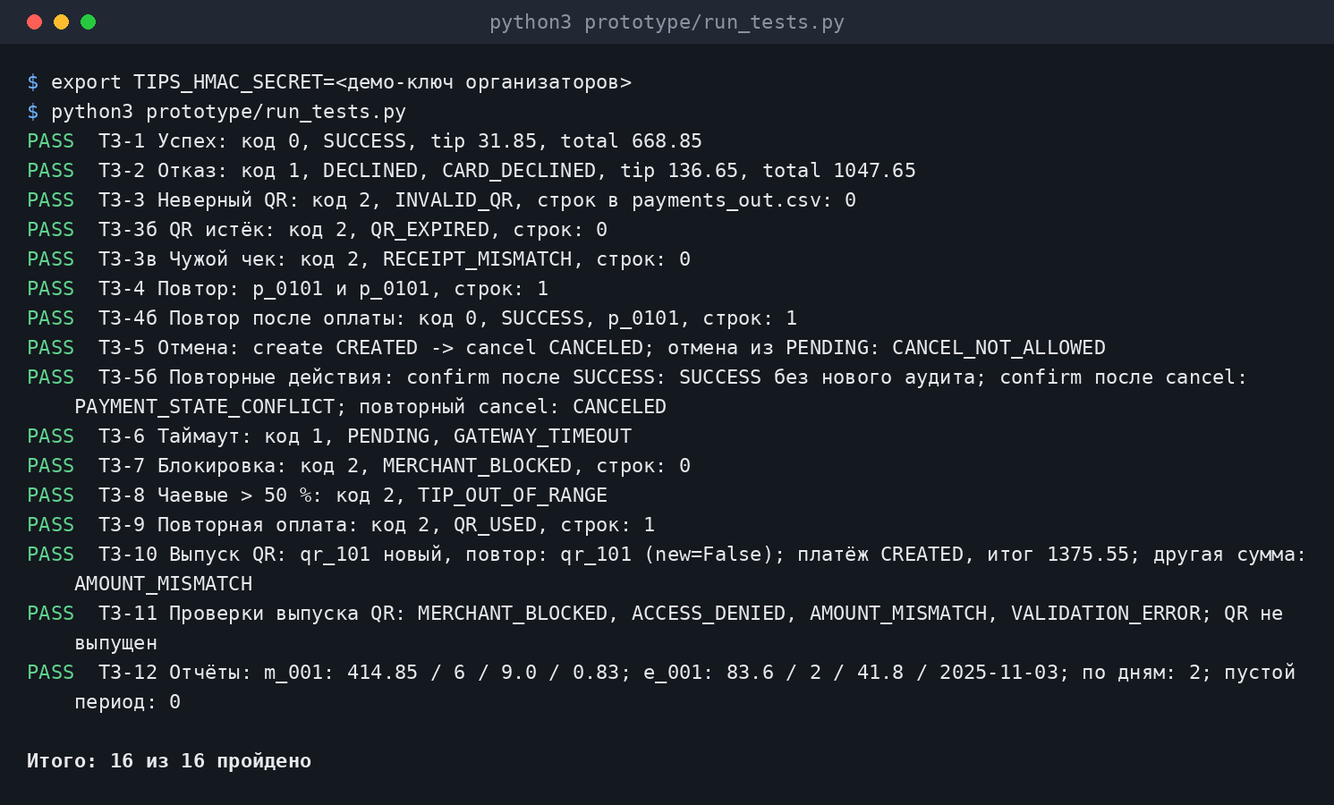
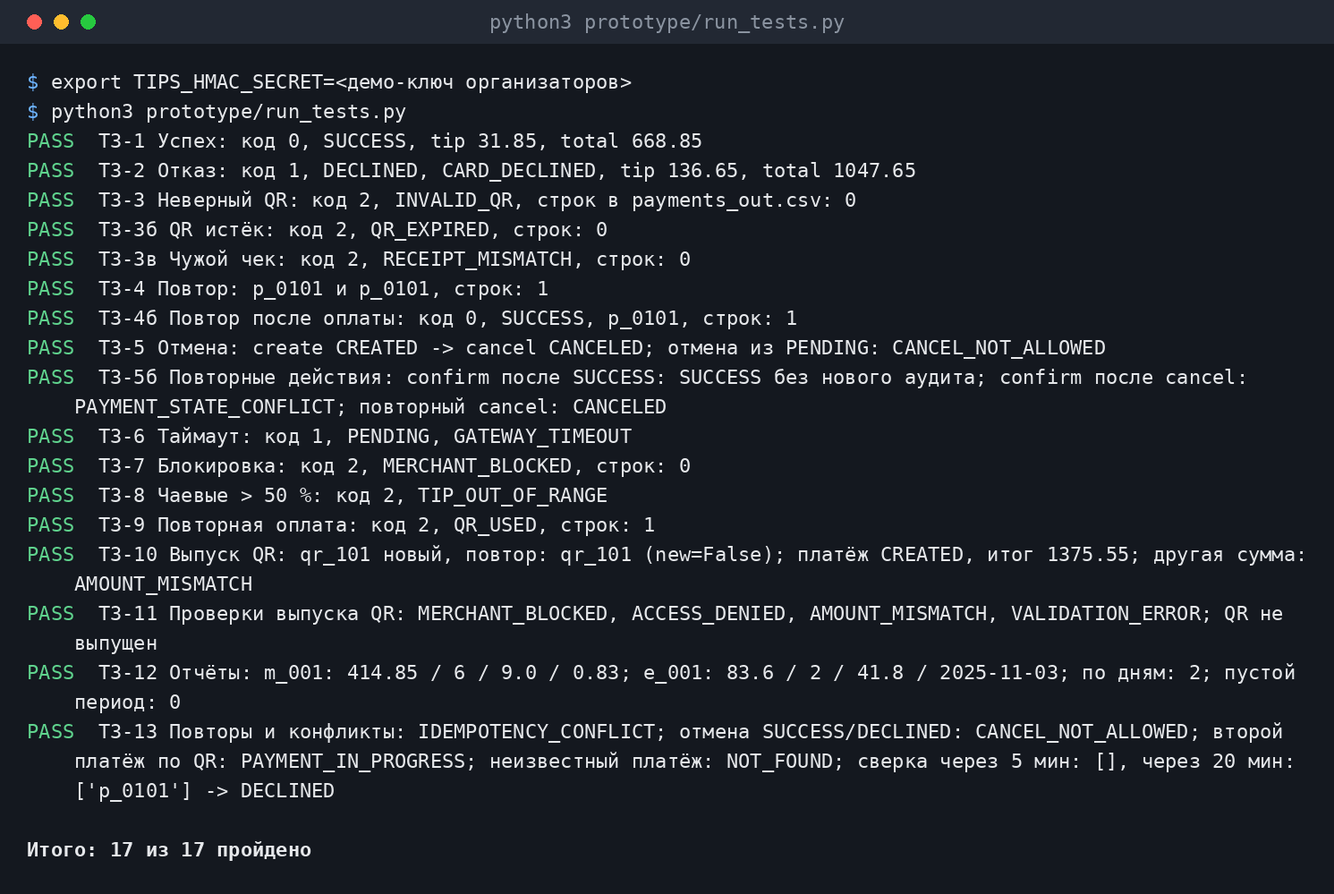
Clean stale statements, add T3-13 and a PDF export script
- B.2: every error row now points at the test that covers it (24 of 27),
  the three without a test are explained; proposal table removed
- tests: T3-13 (idempotency conflict, cancel after SUCCESS/DECLINED, second
  payment per QR, reconcile, unknown payment); suite is 17 of 17
- docs/appendix/make_pdf.py: appendix.md -> HTML/PDF with a 10-15 page check
  (WeasyPrint); measured 16 pages with demo.png, 14 without
- counts, presenter guide and journal updated

diff --git a/docs/appendix/make_pdf.py b/docs/appendix/make_pdf.py
@@ -1,0 +1,90 @@
+#!/usr/bin/env python3
+"""
+Экспорт приложения в PDF и проверка объёма (шаблон чемпионата: 10–15 страниц).
+
+    pip install markdown weasyprint          # один раз
+    python3 docs/appendix/build_appendix.py  # собрать appendix.md из документов
+    python3 docs/appendix/make_pdf.py        # appendix.html + appendix.pdf + число страниц
+
+    python3 docs/appendix/make_pdf.py --max-pages 15 --min-pages 10
+    python3 docs/appendix/make_pdf.py --input other.md --output other.pdf
+
+Код выхода 1, если страниц больше --max-pages. Если WeasyPrint не установлен или не запускается
+(на Windows ему нужен GTK), скрипт всё равно пишет appendix.html: откройте его в браузере,
+Ctrl+P → «Сохранить как PDF», размер A4, поля «обычные», включите «Фон»; число страниц смотрите в предпросмотре.
+"""
+import argparse
+import os
+import sys
+
+HERE = os.path.dirname(os.path.abspath(__file__))
+
+CSS = """
+@page { size: A4; margin: 16mm 14mm 18mm;
+        @bottom-center { content: counter(page) " / " counter(pages); font-size: 8pt; color: #666; } }
+html { font-family: Inter, 'Segoe UI', 'DejaVu Sans', Arial, sans-serif; font-size: 9pt; line-height: 1.35; color: #1b2430; }
+h1 { font-size: 18pt; margin: 0 0 6mm; }
+h2 { font-size: 13pt; margin: 7mm 0 2mm; border-bottom: 1px solid #c9ced6; padding-bottom: 1mm; }
+h3 { font-size: 11pt; margin: 5mm 0 1.5mm; }
+h2, h3, h4 { break-after: avoid; }
+p { margin: 1.5mm 0; }
+table { border-collapse: collapse; width: 100%; margin: 2mm 0 3mm; font-size: 7.6pt; }
+th, td { border: 1px solid #b8bfc9; padding: 1mm 1.4mm; vertical-align: top; overflow-wrap: anywhere; }
+th { background: #eef1f4; text-align: left; }
+tr { break-inside: avoid; }
+thead { display: table-header-group; }
+img { max-width: 100%; max-height: 215mm; display: block; margin: 2mm auto; break-inside: avoid; }
+code { font-family: 'DejaVu Sans Mono', Consolas, monospace; font-size: 0.9em; background: #f1f3f5; padding: 0 0.6mm; }
+pre { background: #f1f3f5; padding: 1.5mm 2mm; white-space: pre-wrap; break-inside: avoid; }
+pre code { background: none; padding: 0; }
+blockquote { margin: 2mm 0; padding: 0.5mm 3mm; border-left: 3px solid #c9ced6; color: #4a5568; }
+ul, ol { margin: 1mm 0; padding-left: 5mm; }
+"""
+
+
+def parse_args():
+    ap = argparse.ArgumentParser(description="Экспорт приложения в PDF и проверка числа страниц")
+    ap.add_argument("--input", default=os.path.join(HERE, "appendix.md"))
+    ap.add_argument("--output", help="по умолчанию — рядом с входным файлом, расширение .pdf")
+    ap.add_argument("--min-pages", type=int, default=10)
+    ap.add_argument("--max-pages", type=int, default=15)
+    return ap.parse_args()
+
+
+def main():
+    args = parse_args()
+    if not os.path.exists(args.input):
+        sys.exit(f"Нет файла {args.input}. Сначала: python3 docs/appendix/build_appendix.py")
+    try:
+        import markdown
+    except ImportError:
+        sys.exit("Нужен модуль markdown: pip install markdown weasyprint")
+
+    stem = os.path.splitext(args.input)[0]
+    html_path, pdf_path = stem + ".html", args.output or stem + ".pdf"
+    with open(args.input, encoding="utf-8") as f:
+        body = markdown.markdown(f.read(), extensions=["tables", "fenced_code", "sane_lists"])
+    html = f"<!doctype html><html lang='ru'><head><meta charset='utf-8'><title>Приложение</title><style>{CSS}</style></head><body>{body}</body></html>"
+    with open(html_path, "w", encoding="utf-8") as f:
+        f.write(html)
+    print(f"HTML: {os.path.relpath(html_path)}")
+
+    try:
+        from weasyprint import HTML
+        document = HTML(string=html, base_url=os.path.dirname(os.path.abspath(args.input)) + os.sep).render()
+    except Exception as exc:  # WeasyPrint не установлен или не нашёл системные библиотеки
+        print(f"PDF не собран автоматически ({type(exc).__name__}: {exc}).\n"
+              "Откройте HTML в браузере и сохраните как PDF (Ctrl+P), см. docstring скрипта.")
+        sys.exit(0)
+    document.write_pdf(pdf_path)
+    pages = len(document.pages)
+    print(f"PDF: {os.path.relpath(pdf_path)}, страниц: {pages} (нужно {args.min_pages}–{args.max_pages})")
+    if pages > args.max_pages:
+        print("Слишком много: уберите demo.png из раздела E или сократите ADR-сводку B.4.")
+        sys.exit(1)
+    if pages < args.min_pages:
+        print("Меньше минимума шаблона: добавьте содержательные разделы (скриншоты, матрица вклада).")
+
+
+if __name__ == "__main__":
+    main()

diff --git a/prototype/run_tests.py b/prototype/run_tests.py
@@ -256,10 +256,47 @@ def t12():
                 f"по дням: {len(d['daily'])}; пустой период: {z['payments_count']}")
 
 
+def t13():
+    """Строки B.2 без отдельного теста: конфликт ключа, отмена закрытого платежа, второй платёж по QR, сверка, неизвестный платёж."""
+    body = dict(qr_id="qr_001", sig=sig_of("qr_001"), base_amount=637.00, tip_pct=5)
+    e = Env()
+    e.run(e.req(**body, idempotency_key="k-13a"))  # SUCCESS, p_0101
+    c1, conflict = e.run(e.req(**dict(body, tip_pct=10, idempotency_key="k-13a")))
+    c2, cancel_paid = e.run("cancel", "p_0101")
+    c3, missing = e.run("confirm", "p_9999")
+
+    e2 = Env()
+    e2.run(e2.req(qr_id="qr_003", sig=sig_of("qr_003"), base_amount=911.00, tip_pct=15, idempotency_key="k-13b"))
+    c4, cancel_declined = e2.run("cancel", "p_0101")
+
+    e3 = Env()
+    e3.run("create", e3.req(**body, idempotency_key="k-13c"))  # CREATED, QR занят
+    c5, busy = e3.run("create", e3.req(**body, idempotency_key="k-13d"))
+
+    e4 = Env()
+    e4.run(e4.req(qr_id="qr_010", sig=sig_of("qr_010"), base_amount=e2_amount("qr_010"), tip_pct=10,
+                  idempotency_key="k-13e"))  # PENDING, ждёт сверку
+    _, early = e4.run("reconcile", now="2025-11-01T18:05:00Z")
+    _, late = e4.run("reconcile", now="2025-11-01T18:20:00Z")
+    closed = e4.rows()[0]
+
+    ok = (c1 == 2 and conflict["error_code"] == "IDEMPOTENCY_CONFLICT"
+          and c2 == 2 and cancel_paid["error_code"] == "CANCEL_NOT_ALLOWED"
+          and c3 == 2 and missing["error_code"] == "NOT_FOUND"
+          and c4 == 2 and cancel_declined["error_code"] == "CANCEL_NOT_ALLOWED"
+          and c5 == 2 and busy["error_code"] == "PAYMENT_IN_PROGRESS"
+          and early["closed"] == [] and late["closed"] == ["p_0101"]
+          and closed["status"] == "DECLINED" and closed["error_code"] == "GATEWAY_TIMEOUT")
+    return ok, (f"{conflict['error_code']}; отмена SUCCESS/DECLINED: {cancel_paid['error_code']}; "
+                f"второй платёж по QR: {busy['error_code']}; неизвестный платёж: {missing['error_code']}; "
+                f"сверка через 5 мин: {early['closed']}, через 20 мин: {late['closed']} -> {closed['status']}")
+
+
 TESTS = [("T3-1 Успех", t1), ("T3-2 Отказ", t2), ("T3-3 Неверный QR", t3), ("T3-3б QR истёк", t3b), ("T3-3в Чужой чек", t3c),
          ("T3-4 Повтор", t4), ("T3-4б Повтор после оплаты", t4b), ("T3-5 Отмена", t5), ("T3-5б Повторные действия", t5b), ("T3-6 Таймаут", t6), ("T3-7 Блокировка", t7),
          ("T3-8 Чаевые > 50 %", t8), ("T3-9 Повторная оплата", t9),
-         ("T3-10 Выпуск QR", t10), ("T3-11 Проверки выпуска QR", t11), ("T3-12 Отчёты", t12)]
+         ("T3-10 Выпуск QR", t10), ("T3-11 Проверки выпуска QR", t11), ("T3-12 Отчёты", t12),
+         ("T3-13 Повторы и конфликты", t13)]
 
 
 def main():

diff --git a/docs/b2-error-matrix.md b/docs/b2-error-matrix.md
@@ -12,34 +12,34 @@
 | Ситуация | Код ошибки | HTTP | retryable | Правило | Что видит клиент | Тест |
 |-|-|-|-|-|-|-|
 | Подпись QR не совпала | INVALID_QR | 422 | нет | Q-1 | «Не удалось открыть оплату» | T3-3 |
-| QR истёк | QR_EXPIRED | 410 | да (новый QR) | Q-2 | «QR устарел, попросите официанта новый» | T3-3 (вариант) |
-| nonce использован | QR_USED | 409 | нет | Q-3 | «Этот чек уже оплачен» | — |
-| merchant BLOCKED | MERCHANT_BLOCKED | 403 | нет | Q-4 | «Оплата в заведении недоступна» | — |
-| `receipt_id` не совпадает с QR | RECEIPT_MISMATCH | 422 | нет | Q-5 | «Не удалось открыть оплату» | — |
+| QR истёк | QR_EXPIRED | 410 | да (новый QR) | Q-2 | «QR устарел, попросите официанта новый» | T3-3б |
+| nonce использован | QR_USED | 409 | нет | Q-3 | «Этот чек уже оплачен» | T3-9 |
+| merchant BLOCKED | MERCHANT_BLOCKED | 403 | нет | Q-4 | «Оплата в заведении недоступна» | T3-7 |
+| `receipt_id` не совпадает с QR | RECEIPT_MISMATCH | 422 | нет | Q-5 | «Не удалось открыть оплату» | T3-3в |
 
 ## Суммы
 
 | Ситуация | Код ошибки | HTTP | retryable | Правило | Что видит клиент | Тест |
 |-|-|-|-|-|-|-|
-| `base_amount` не совпадает с реестром чеков | AMOUNT_MISMATCH | 422 | нет | ADR-003 | «Сумма чека изменилась, обновите страницу» | — |
+| `base_amount` не совпадает с реестром чеков | AMOUNT_MISMATCH | 422 | нет | ADR-003 | «Сумма чека изменилась, обновите страницу» | T3-10 |
 | `base_amount ≤ 0` или `> 1 000 000` | AMOUNT_OUT_OF_RANGE | 422 | нет | P-1 | «Некорректная сумма» | — |
-| `tip_pct > 50` или своя сумма больше 50 % чека | TIP_OUT_OF_RANGE | 422 | да (исправить чаевые) | Q-6 | «Чаевые — не больше 50 % от чека» | — |
+| `tip_pct > 50` или своя сумма больше 50 % чека | TIP_OUT_OF_RANGE | 422 | да (исправить чаевые) | Q-6 | «Чаевые — не больше 50 % от чека» | T3-8 |
 | `amount_total > 2 000 000` | AMOUNT_OUT_OF_RANGE | 422 | нет | P-3 | «Некорректная сумма» | — |
 
 ## Создание и жизненный цикл платежа
 
 | Ситуация | Код ошибки | HTTP | retryable | Правило | Что видит клиент | Тест |
 |-|-|-|-|-|-|-|
-| Тот же `idempotency_key`, то же тело (в том числе после SUCCESS или истечения QR) | — (вернуть существующий платёж) | 200 | — | P-2 | тот же экран, что после первого запроса | T3-4 |
-| Тот же `idempotency_key`, другое тело | IDEMPOTENCY_CONFLICT | 409 | нет | P-2, ADR-008 | «Обновите страницу» | — |
-| По QR уже есть платёж в CREATED или PENDING | PAYMENT_IN_PROGRESS | 409 | да (дождаться итога) | ADR-002 | «Оплата уже обрабатывается» | — |
+| Тот же `idempotency_key`, то же тело (в том числе после SUCCESS или истечения QR) | — (вернуть существующий платёж) | 200 | — | P-2 | тот же экран, что после первого запроса | T3-4, T3-4б |
+| Тот же `idempotency_key`, другое тело | IDEMPOTENCY_CONFLICT | 409 | нет | P-2, ADR-008 | «Обновите страницу» | T3-13 |
+| По QR уже есть платёж в CREATED или PENDING | PAYMENT_IN_PROGRESS | 409 | да (дождаться итога) | ADR-002 | «Оплата уже обрабатывается» | T3-13 |
 | Отмена из CREATED | — | 200, CANCELED | — | ADR-002 | «Оплата отменена» | T3-5 |
 | Отмена из PENDING | CANCEL_NOT_ALLOWED | 409 | нет | P-4 | «Оплата уже отправлена в банк» | T3-5 |
-| Отмена из SUCCESS | CANCEL_NOT_ALLOWED | 409 | нет | P-4 | «Оплата уже прошла» | — |
-| Отмена из DECLINED | CANCEL_NOT_ALLOWED | 409 | нет | P-4 | «Оплата не прошла, отменять нечего» | — |
-| Повторная отмена CANCELED | — | 200, CANCELED | — | ADR-002 | «Оплата отменена» | — |
-| Повторный confirm (PENDING / SUCCESS / DECLINED) | — (текущий статус, шлюз не вызывается) | 202 / 200 / 402 | — | ADR-002, ADR-008 | тот же экран, что после первого confirm | — |
-| confirm для CANCELED | PAYMENT_STATE_CONFLICT | 409 | нет | ADR-002 | «Оплата была отменена» | — |
+| Отмена из SUCCESS | CANCEL_NOT_ALLOWED | 409 | нет | P-4 | «Оплата уже прошла» | T3-13 |
+| Отмена из DECLINED | CANCEL_NOT_ALLOWED | 409 | нет | P-4 | «Оплата не прошла, отменять нечего» | T3-13 |
+| Повторная отмена CANCELED | — | 200, CANCELED | — | ADR-002 | «Оплата отменена» | T3-5б |
+| Повторный confirm (PENDING / SUCCESS / DECLINED) | — (текущий статус, шлюз не вызывается) | 202 / 200 / 402 | — | ADR-002, ADR-008 | тот же экран, что после первого confirm | T3-5б |
+| confirm для CANCELED | PAYMENT_STATE_CONFLICT | 409 | нет | ADR-002 | «Оплата была отменена» | T3-5б |
 
 ## Платёжный шлюз
 
@@ -47,16 +47,16 @@
 |-|-|-|-|-|-|-|
 | Эмулятор вернул 0–7 | — | 200, SUCCESS | — | ADR-001 | «Спасибо! Чаевые отправлены» | T3-1 |
 | Эмулятор вернул 8 | CARD_DECLINED | 402 | да (другой способ оплаты) | ADR-001 | «Оплата не прошла, попробуйте другой способ» | T3-2 |
-| Эмулятор вернул 9 | GATEWAY_TIMEOUT | 202, PENDING | да (опросить статус) | ADR-001 | «Обрабатываем, проверьте через минуту» | T3-6 (доп., qr_010) |
-| Сверка: 15 мин без ответа | GATEWAY_TIMEOUT | — (статус DECLINED) | да (новая попытка) | ADR-002 | «Оплата не прошла, деньги не списаны» | T3-6 (доп.) |
+| Эмулятор вернул 9 | GATEWAY_TIMEOUT | 202, PENDING | да (опросить статус) | ADR-001 | «Обрабатываем, проверьте через минуту» | T3-6 |
+| Сверка: 15 мин без ответа | GATEWAY_TIMEOUT | — (статус DECLINED) | да (новая попытка) | ADR-002 | «Оплата не прошла, деньги не списаны» | T3-13 |
 
 ## Запрос и доступ
 
 | Ситуация | Код ошибки | HTTP | retryable | Правило | Что видит клиент | Тест |
 |-|-|-|-|-|-|-|
-| Неверный формат запроса | VALIDATION_ERROR | 400 | нет | ADR-004, шаг 1 | «Не удалось открыть оплату» | — |
-| QR или платёж не найден (подпись верна) | NOT_FOUND | 404 | нет | — | «Не удалось открыть оплату» | — |
-| Нет прав, например чужой отчёт | ACCESS_DENIED | 403 | нет | RBAC, 11_ИБ | «Нет доступа» (кабинет) | — |
+| Неверный формат запроса | VALIDATION_ERROR | 400 | нет | ADR-004, шаг 1 | «Не удалось открыть оплату» | T3-11 |
+| QR или платёж не найден (подпись верна) | NOT_FOUND | 404 | нет | — | «Не удалось открыть оплату» | T3-13 |
+| Нет прав, например чужой отчёт | ACCESS_DENIED | 403 | нет | RBAC, 11_ИБ | «Нет доступа» (кабинет) | T3-11 (выпуск QR) |
 | Превышен rate limit | RATE_LIMITED | 429 | да (после `Retry-After`) | ADR-009 | «Слишком много попыток, подождите» | — |
 
 ## Принципы
@@ -75,12 +75,10 @@
 
 ## Покрытие тестами
 
-Тестами T3-1…T3-5 покрыто 7 строк из 27. Добавить дешевле всего:
+Тестами прототипа (T3-1…T3-13, `prototype/run_tests.py`, [результаты](03-tests.md)) покрыто **24 строки из 27**.
+Три без теста — по причинам, а не по недосмотру:
 
-| Доп. тест | Вход | Ожидание |
-|-|-|-|
-| T3-6 Таймаут | qr_010, `--now 2025-11-01T18:00:00Z` | 202, PENDING, GATEWAY_TIMEOUT |
-| T3-7 Заблокированный мерчант | QR, подписанный для m_019 | 403 MERCHANT_BLOCKED, платёж не создан |
-| T3-8 Чаевые > 50 % | qr_001, `tip_pct = 51` | 422 TIP_OUT_OF_RANGE |
-| T3-9 Повторная оплата | qr_001 после SUCCESS, **новый** ключ | 409 QR_USED |
-| T3-4б Повтор после оплаты | qr_001 после SUCCESS, **тот же** ключ | 200, тот же `payment_id` |
+| Строки | Почему без теста |
+|-|-|
+| `base_amount` вне диапазона (P-1), `amount_total > 2 000 000` (P-3) | недостижимы при текущих лимитах: сумму чека раньше сверяет реестр (`AMOUNT_MISMATCH`), а итог не превышает 1 500 000. Правила стоят как защита в глубину ([ADR-004](adr-004-validation-order.md)) |
+| Превышен rate limit | описан в [ADR-009](adr-009-secrets-time-ttl.md), в прототипе не реализован |

diff --git a/docs/04-requirements.md b/docs/04-requirements.md
@@ -4,7 +4,7 @@
 
 ## Функциональные требования
 
-Все FR — Must для целевого решения. Тесты T3 относятся к [сценариям организаторов](../case/03_тесты.md), дополнения T3-6…T3-9 описаны в [B.2](b2-error-matrix.md#покрытие-тестами) и [руководстве разработчика](guides/developer.md). АТ ниже — дополнительные приёмочные сценарии аналитика, **ещё не реализованные и не выполненные**. Несуществующая ссылка `10_tests.md` заменена действующими.
+Все FR — Must для целевого решения. Тесты T3 относятся к [сценариям организаторов](../case/03_тесты.md), дополнительные тесты T3-3б…T3-13 реализованы в прототипе, результаты — в [тестах](03-tests.md), связь со строками ошибок — в [B.2](b2-error-matrix.md#покрытие-тестами). АТ ниже — дополнительные приёмочные сценарии аналитика, **ещё не реализованные и не выполненные**. Несуществующая ссылка `10_tests.md` заменена действующими.
 
 | ID | Требование и наблюдаемый результат | Приоритет | Тест / покрытие |
 |---|---|---|---|
@@ -89,4 +89,4 @@
 - [x] Сценарии написаны от лица клиента и официанта; отказ отделён от отмены.
 - [x] Даны действующие ссылки на T3 и явно обозначен план дополнительных проверок.
 
-Приёмка реализации отдельно: прототип проходит T3-1…T3-9 и дополнительные T3-3б, T3-3в, T3-4б, T3-5б — 13 из 13 ([тесты](03-tests.md)). Регистрация, RBAC, отчёты и rate limit в CLI не реализованы, сценарии АТ-1…АТ-9 остаются планом. Отметки выше подтверждают полноту документа.
+Приёмка реализации отдельно: прототип проходит 17 тестов из 17 ([тесты](03-tests.md)): T3-1…T3-9, дополнительные T3-3б, T3-3в, T3-4б, T3-5б и T3-10…T3-13 (выпуск QR, отчёты, повторы и конфликты). Регистрация, RBAC и rate limit в CLI не реализованы, сценарии АТ-1…АТ-9 остаются планом. Отметки выше подтверждают полноту документа.

diff --git a/docs/ai-journal.md b/docs/ai-journal.md
@@ -35,3 +35,4 @@
 | 15 | 2026-11-03 | архитектор / Claude | Довести PR #1 аналитика по ревью | «поправь сам» (аналитик не ответил на ревью) | влит main, строки журнала 12–14; 02-rules и 04-requirements по ADR-002/004 из PR #2; FR-3 0–20 %; receipt_id обязателен; устаревшие заметки о прототипе; analyst_data.py: Python < 3.11, check() вместо assert, null и ранний top_day | analyst_data.py проходит и с -O; check(False) прерывает прогон; run_tests.py 13 из 13 | черновик, аналитику — вычитать |
 | 16 | 2026-11-03 | архитектор / Claude | Закрыть пробелы кейса: диалоговая форма, генерация QR, отчёты в прототипе | «начни» после анализа проекта | docs/06-qr-and-dialog.md, diagrams/dialog (макет 4 экранов), команды `qr` и `report` в 04_прототип.py, тесты T3-10…T3-12, граничные случаи отчётов в ADR-007 | run_tests.py 16 из 16; отчёты сверены с ADR-007 и analyst_data.py (414.85 / 6 / 9.0 / 0.83); ручные проверки ошибок выпуска QR; PNG макета просмотрен; seed md5 без изменений | черновик, разработчику — вычитать изменения в прототипе |
 | 17 | 2026-11-03 | архитектор / Claude | Демо-скрипт и скриншоты для слайда 6 и раздела E | «демо-скрипт и скрины» | prototype/demo.py (9 сценариев, цвет, временный каталог), docs/screenshots (скрипт отрисовки и 3 изображения) | демо прогнан дважды: результаты совпадают с тестами и ADR (414.85 / 6 / 9.0 / 0.83; репозиторий не менялся); изображения просмотрены, перенос строк исправлен; seed md5 без изменений | черновик, разработчику — вычитать demo.py |
+| 18 | 2026-11-03 | архитектор / Claude | Чистка расхождений и PDF-сборка | «чистка и PDF-сборка» | docs/appendix/make_pdf.py, тест T3-13, матрица B.2 с привязкой тестов к строкам, счётчики 17 из 17 | PDF собран WeasyPrint: 16 страниц с demo.png, 14 без; contact sheet страниц просмотрен; run_tests.py 17 из 17; B.2: 24 строки из 27 покрыты, 3 без теста объяснены | черновик |

diff --git a/docs/03-tests.md b/docs/03-tests.md
@@ -1,7 +1,7 @@
 # Тесты — кейс 3 (заполненный шаблон 03_тесты)
 
 Прогон: `export TIPS_HMAC_SECRET=<демо-ключ из README> && python3 prototype/run_tests.py`.
-Все запуски с `--now 2025-11-01T18:00:00Z`, если не сказано иное. Результат: 16 из 16.
+Все запуски с `--now 2025-11-01T18:00:00Z`, если не сказано иное. Результат: 17 из 17.
 
 | Тест | Вход | Ожидание | Факт | Пройден |
 |-|-|-|-|-|
@@ -21,6 +21,7 @@
 | T3-10 Выпуск QR | `qr` для m_001 / e_001 / чек r_2001 на 1250.50; повтор; платёж по ссылке; платёж с другой суммой | QR выпущен, повтор возвращает тот же; CREATED, итог 1375.55; AMOUNT_MISMATCH | qr_101 новый, повтор: qr_101 (new=False); платёж CREATED, итог 1375.55; другая сумма: AMOUNT_MISMATCH | да |
 | T3-11 Проверки выпуска QR | заблокированный мерчант m_019; официант другого мерчанта; чек r_1001 с другой суммой; неверный формат | MERCHANT_BLOCKED, ACCESS_DENIED, AMOUNT_MISMATCH, VALIDATION_ERROR; QR не выпущен | MERCHANT_BLOCKED, ACCESS_DENIED, AMOUNT_MISMATCH, VALIDATION_ERROR; QR не выпущен | да |
 | T3-12 Отчёты | `report` по m_001, e_001, по дням, пустой период, период из двух месяцев | 414.85 / 6 / 9.0 / 0.83; 83.6 / 2 / 41.8 / 2025-11-03; 2 дня; нули; VALIDATION_ERROR | m_001: 414.85 / 6 / 9.0 / 0.83; e_001: 83.6 / 2 / 41.8 / 2025-11-03; по дням: 2; пустой период: 0 | да |
+| T3-13 Повторы и конфликты | тот же ключ с другим телом; отмена SUCCESS и DECLINED; второй платёж по QR в CREATED; сверка через 5 и 20 минут; неизвестный платёж | IDEMPOTENCY_CONFLICT; CANCEL_NOT_ALLOWED; PAYMENT_IN_PROGRESS; пусто, затем DECLINED / GATEWAY_TIMEOUT; NOT_FOUND | IDEMPOTENCY_CONFLICT; CANCEL_NOT_ALLOWED; PAYMENT_IN_PROGRESS; сверка через 5 мин: [], через 20 мин: [p_0101] → DECLINED; NOT_FOUND | да |
 
 ## Ограничения прототипа
 

diff --git a/README.md b/README.md
@@ -46,7 +46,7 @@ docs/
 |-|-|-|
 | Архитектор | ADR-001…009, A.1–A.3, B.2, 05_api, 07, 11_ИБ, [QR и диалог](docs/06-qr-and-dialog.md), команды `qr` и `report` прототипа, слайды 3–5 | готово, нужна командная вычитка |
 | Аналитик | [правила](docs/02-rules.md), [роли](docs/02-roles.md), [словарь данных](docs/03-data-dictionary.md), [требования](docs/04-requirements.md), [отчёты](docs/09-reports.md) | влито (PR #1), открытых вопросов нет; нужна командная вычитка |
-| Разработчик | прототип и тесты ([PR #3](https://github.com/AndrewStrizhevskiy/vpotoke-case3-tips/pull/3)), [03_тесты](docs/03-tests.md) | влито, 16 тестов из 16; скриншоты для приложения готовы ([docs/screenshots](docs/screenshots/README.md)), остался скриншот коммита финальной ветки |
+| Разработчик | прототип и тесты ([PR #3](https://github.com/AndrewStrizhevskiy/vpotoke-case3-tips/pull/3)), [03_тесты](docs/03-tests.md) | влито, 17 тестов из 17; скриншоты для приложения готовы ([docs/screenshots](docs/screenshots/README.md)), остался скриншот коммита финальной ветки |
 | Презентатор | слайды 1, 2, 6, 7, 8, приложение, PDF | [PR #4](https://github.com/AndrewStrizhevskiy/vpotoke-case3-tips/pull/4): собранное приложение и план слайдов; слайды не написаны |
 
 Черновик слайдов 3–5: https://claude.ai/artifact/7Am3MXDGZ6bGuSUsDPhS4n
@@ -65,7 +65,7 @@ python3 docs/checks/analyst_data.py
 cd diagrams && python3 build_system.py && python3 build_states.py && python3 build_er.py
 convert -density 192 system.svg system.png   # так же для states и er
 
-# прототип: тесты (16 из 16) и примеры команд
+# прототип: тесты (17 из 17) и примеры команд
 export TIPS_HMAC_SECRET=demo-secret-k3
 python3 prototype/run_tests.py
 python3 prototype/demo.py                       # сквозная демонстрация для защиты

diff --git a/docs/guides/presenter.md b/docs/guides/presenter.md
@@ -32,6 +32,20 @@
 - **Масштабирование** — реальный шлюз вместо эмулятора, сумма в подписи QR (payload v2), мультивалютность для ЮВА
   (поле `currency` уже заложено).
 
+## PDF одной командой
+
+Приложение собирается и экспортируется скриптами (нужны Python 3 и `pip install markdown weasyprint`):
+
+```bash
+python3 docs/appendix/build_appendix.py   # собрать appendix.md из документов
+python3 docs/appendix/make_pdf.py         # appendix.pdf + проверка: 10–15 страниц
+```
+
+Скрипт печатает число страниц и завершается с ошибкой, если их больше 15. По моему замеру на 2 ноября
+приложение занимает 16 страниц с `demo.png` в разделе E и 14 без него: если страниц много, уберите этот блок.
+Если WeasyPrint не запускается (на Windows ему нужен GTK), скрипт всё равно пишет `appendix.html`:
+откройте в браузере → Ctrl+P → «Сохранить как PDF». Презентацию экспортируйте из её редактора (PDF или PPTX).
+
 ## Приложение: что куда
 
 | Раздел | Файл | Кто |

diff --git a/docs/guides/analyst.md b/docs/guides/analyst.md
@@ -45,7 +45,7 @@
 - NFR, обязательные по подсказке: TTL QR, HMAC, маскирование `payment_details`, аудит.
   Из ADR-009 добавь rate limit, время в UTC, секреты вне Git.
 - В колонке «Тест» ссылайся на T3-1…T3-9. Шаблон ссылается на `10_tests.md`, такого файла нет:
-  тесты в `03_тесты.md` и в [B.2](../b2-error-matrix.md#покрытие-тестами).
+  тесты в [03-tests.md](../03-tests.md) (T3-1…T3-13), связь со строками ошибок — [B.2](../b2-error-matrix.md#покрытие-тестами).
 - Сценарии пиши от лица клиента **и** официанта. «Отмена» и «отказ» — разные сценарии.
 
 ## 5. `09_reports.md`

diff --git a/docs/screenshots/README.md b/docs/screenshots/README.md
@@ -2,7 +2,7 @@
 
 | Файл | Что показывает | Куда |
 |-|-|-|
-| `tests.png` | `run_tests.py`: 16 тестов из 16 | слайд 6, приложение B.3 / E |
+| `tests.png` | `run_tests.py`: 17 тестов из 17 | слайд 6, приложение B.3 / E |
 | `md5.png` | `md5sum -c MD5SUMS`: исходные данные не менялись | приложение E |
 | `demo.png` | `demo.py`: сквозной сценарий (QR → оплата → повтор → отказ → подделка → таймаут → отмена → отчёт → аудит) | приложение E, при желании слайд 6 |
 
